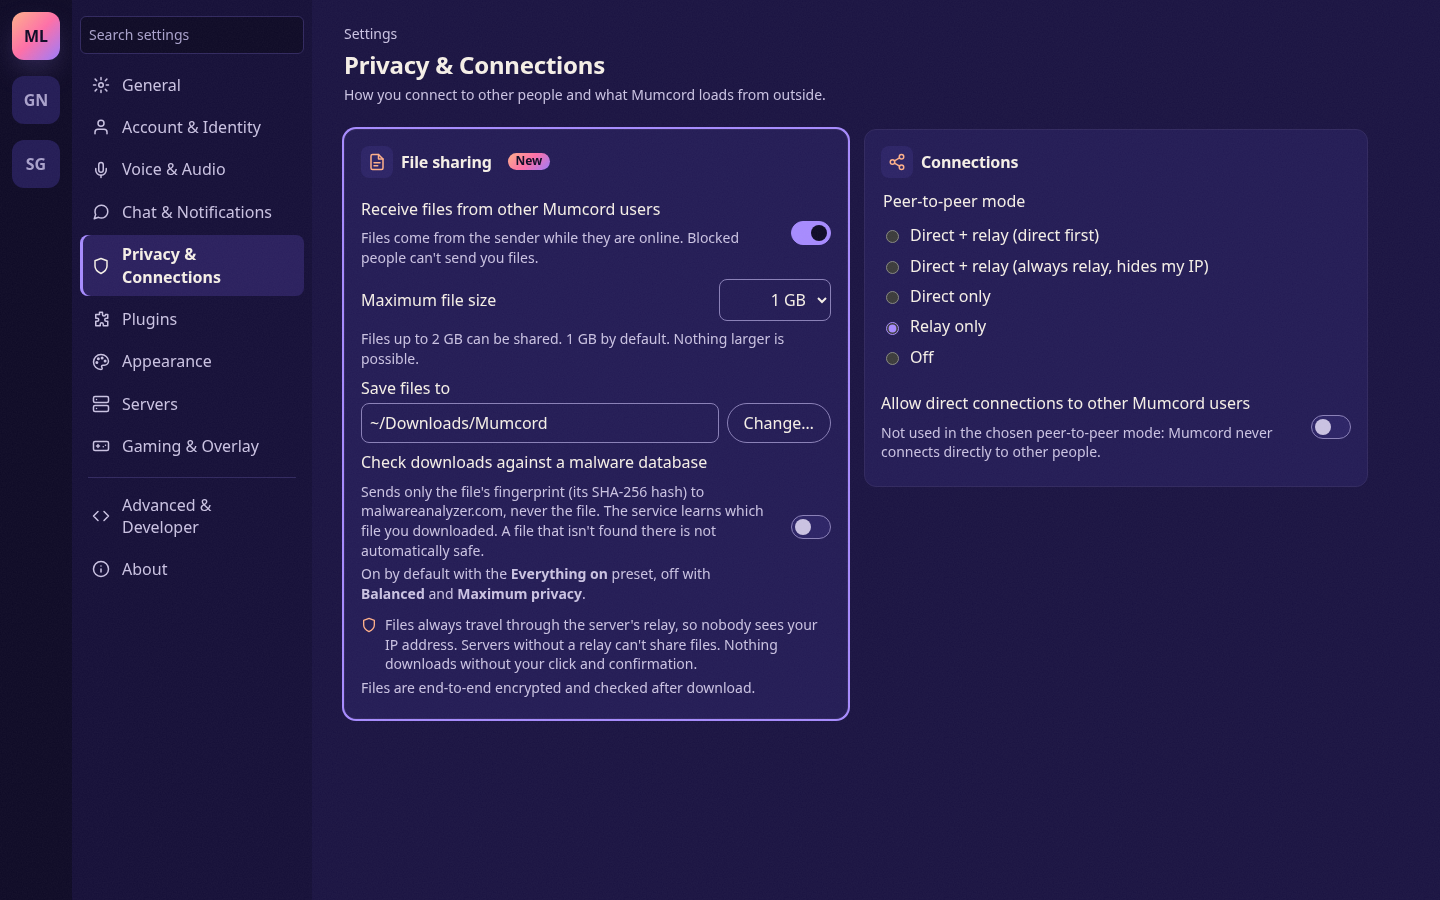
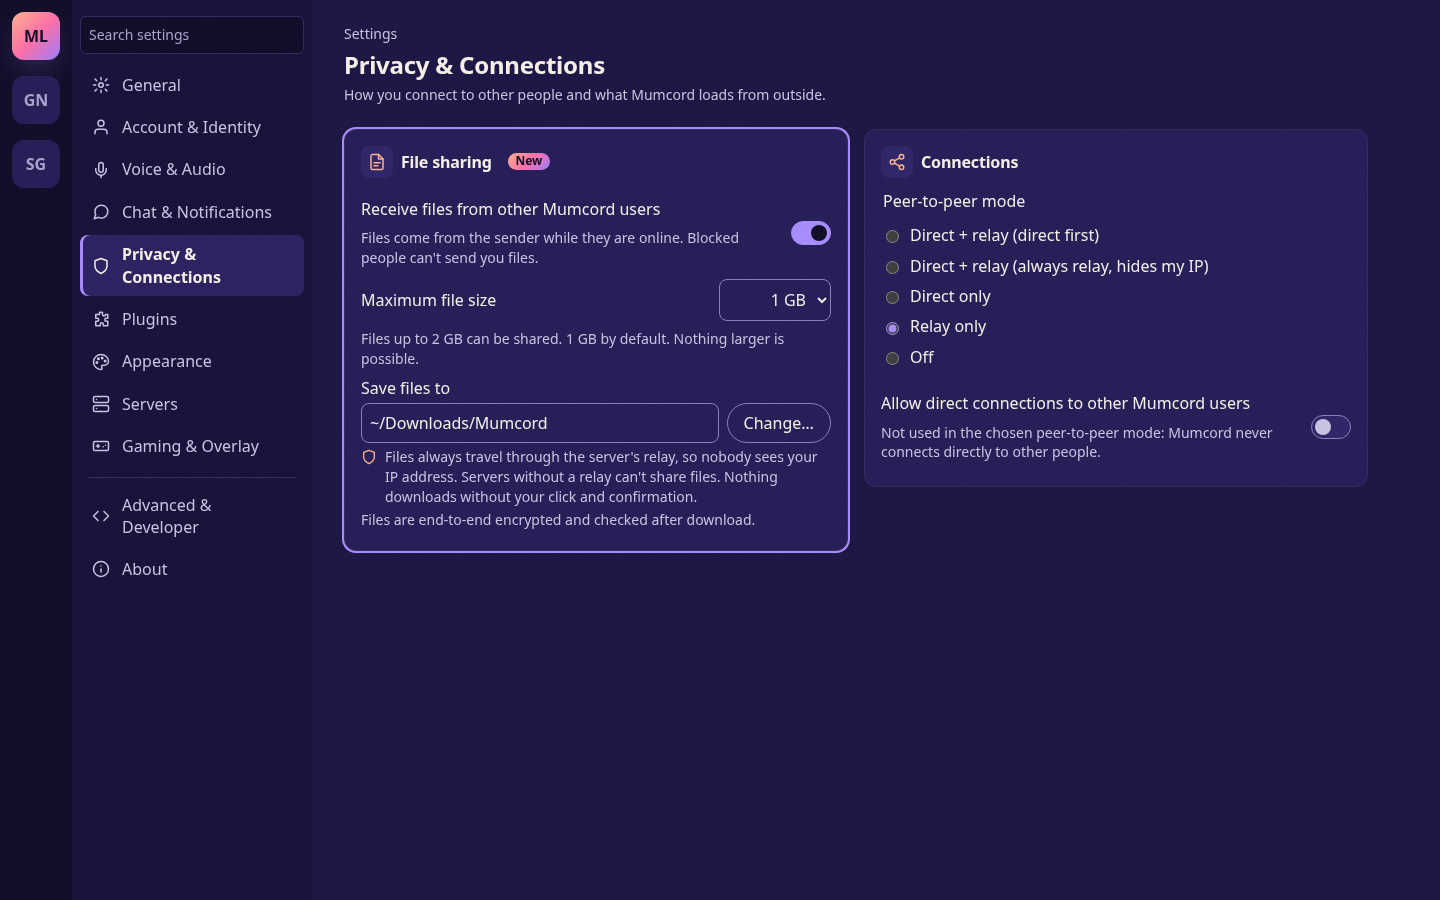
docs(mockups): remove the malware check from the Epic 4.1 file-sharing mockups

Changed region(s): [[0.25, 0.4978, 0.5938, 0.8089]]

diff --git a/docs/mockups/epic-4.1/08-settings-file-sharing.html b/docs/mockups/epic-4.1/08-settings-file-sharing.html
@@ -41,7 +41,7 @@
 <p id="max-hint" class="settings-hint">Files up to 2 GB can be shared. 1 GB by default. Nothing larger is possible.</p>
 <label class="settings-field" for="folder">Save files to</label>
 <div class="mock-folder"><input id="folder" class="settings-input" value="~/Downloads/Mumcord" readonly><button type="button" class="settings-button">Change…</button></div>
-<div class="settings-switch"><div class="settings-switch__text"><label>Check downloads against a malware database</label><p class="settings-switch__status settings-hint">Sends only the file's fingerprint (its SHA-256 hash) to malwareanalyzer.com, never the file. The service learns which file you downloaded. A file that isn't found there is not automatically safe.<span class="mock-switch-default">On by default with the <strong>Everything on</strong> preset, off with <strong>Balanced</strong> and <strong>Maximum privacy</strong>.</span></p></div><input type="checkbox" role="switch" class="settings-switch__input" aria-label="Check downloads against a malware database"></div>
+
 <p class="settings-hint mock-relay-note"><svg viewBox="0 0 24 24" width="16" height="16" aria-hidden="true" fill="none" stroke="currentColor" stroke-width="2" stroke-linecap="round" stroke-linejoin="round"><path d="M12 22s8-4 8-10V5l-8-3-8 3v7c0 6 8 10 8 10z"/></svg><span>Files always travel through the server's relay, so nobody sees your IP address. Servers without a relay can't share files. Nothing downloads without your click and confirmation.</span></p>
 <p class="settings-hint">Files are end-to-end encrypted and checked after download.</p>
 </section><section class="settings-group"><div class="settings-group__head"><span class="settings-group__icon"><svg class="settings-icon" viewBox="0 0 24 24" width="18" height="18" fill="none" stroke="currentColor" stroke-width="2" stroke-linecap="round" stroke-linejoin="round" aria-hidden="true"><circle cx="18" cy="5" r="3"/><circle cx="6" cy="12" r="3"/><circle cx="18" cy="19" r="3"/><path d="m8.6 13.5 6.8 4M15.4 6.5l-6.8 4"/></svg></span><h3 class="settings-group__title">Connections</h3></div><fieldset class="settings-radios"><legend class="settings-radios__legend"><span>Peer-to-peer mode</span></legend><div class="settings-radios__row"><label class="settings-radios__option"><input type="radio" name="p2p"> Direct + relay (direct first)</label></div><div class="settings-radios__row"><label class="settings-radios__option"><input type="radio" name="p2p"> Direct + relay (always relay, hides my IP)</label></div><div class="settings-radios__row"><label class="settings-radios__option"><input type="radio" name="p2p"> Direct only</label></div><div class="settings-radios__row"><label class="settings-radios__option"><input type="radio" name="p2p" checked> Relay only</label></div><div class="settings-radios__row"><label class="settings-radios__option"><input type="radio" name="p2p"> Off</label></div></fieldset><div class="settings-switch"><div class="settings-switch__text"><label>Allow direct connections to other Mumcord users</label><p class="settings-switch__status settings-hint">Not used in the chosen peer-to-peer mode: Mumcord never connects directly to other people.</p></div><input type="checkbox" role="switch" class="settings-switch__input" aria-label="Allow direct connections to other Mumcord users"></div></section></div>

diff --git a/docs/mockups/epic-4.1/04-done.html b/docs/mockups/epic-4.1/04-done.html
@@ -46,7 +46,6 @@
   
[1 lines of base64/hex data omitted]
   <p class="file-card__status"><span class="file-card__ok">✓ Downloaded</span><span class="file-card__ok">✓ Matches the offer</span><span class="mock-muted">Saved to Downloads/Mumcord</span></p>
-  <p class="file-card__status file-card__scan"><span class="score-ring score-ring--sm" data-level="clean" style="--score: 2" role="img" aria-label="Malware score 2 of 100, clean"><span class="score-ring__value" aria-hidden="true">2<span class="score-ring__max">/100</span></span></span><span>No threats found by malwareanalyzer.com — not a guarantee</span></p>
   <div class="file-card__actions"><button type="button" class="media-pill file-card__button"><svg viewBox="0 0 24 24" width="16" height="16" aria-hidden="true" fill="none" stroke="currentColor" stroke-width="2" stroke-linecap="round" stroke-linejoin="round"><path d="M3 7a2 2 0 0 1 2-2h4l2 2h8a2 2 0 0 1 2 2v8a2 2 0 0 1-2 2H5a2 2 0 0 1-2-2z"/></svg><span>Open folder</span></button><button type="button" class="media-pill file-card__button"><svg viewBox="0 0 24 24" width="16" height="16" aria-hidden="true" fill="none" stroke="currentColor" stroke-width="2" stroke-linecap="round" stroke-linejoin="round"><path d="M14 2H6a2 2 0 0 0-2 2v16a2 2 0 0 0 2 2h12a2 2 0 0 0 2-2V8z"/><path d="M14 2v6h6M8 13h8M8 17h5"/></svg><span>Open</span></button></div>
 </div></div></div></div></li></ul></div></div>
     <form class="chat-composer" aria-label="Message composer">

diff --git a/docs/mockups/epic-4.1/02-offer-card.html b/docs/mockups/epic-4.1/02-offer-card.html
@@ -46,7 +46,6 @@
   
[1 lines of base64/hex data omitted]
   <p class="file-card__status"><span class="file-card__dot" data-online></span>Available while Alice is online · ends tomorrow at 20:04</p>
-  <p class="file-card__status file-card__scan"><span class="score-ring score-ring--sm" data-level="unknown" role="img" aria-label="Malware score not available, file not found in the malware database"><span class="score-ring__value" aria-hidden="true">–</span></span><span>Checked before download: not found in the malware database</span></p>
   <div class="file-card__actions"><button type="button" class="button button--primary file-card__button"><svg viewBox="0 0 24 24" width="16" height="16" aria-hidden="true" fill="none" stroke="currentColor" stroke-width="2" stroke-linecap="round" stroke-linejoin="round"><path d="M12 3v12M7 10l5 5 5-5M5 21h14"/></svg><span>Download</span></button></div>
 </div></div></div></div></li></ul></div></div>
     <form class="chat-composer" aria-label="Message composer">
